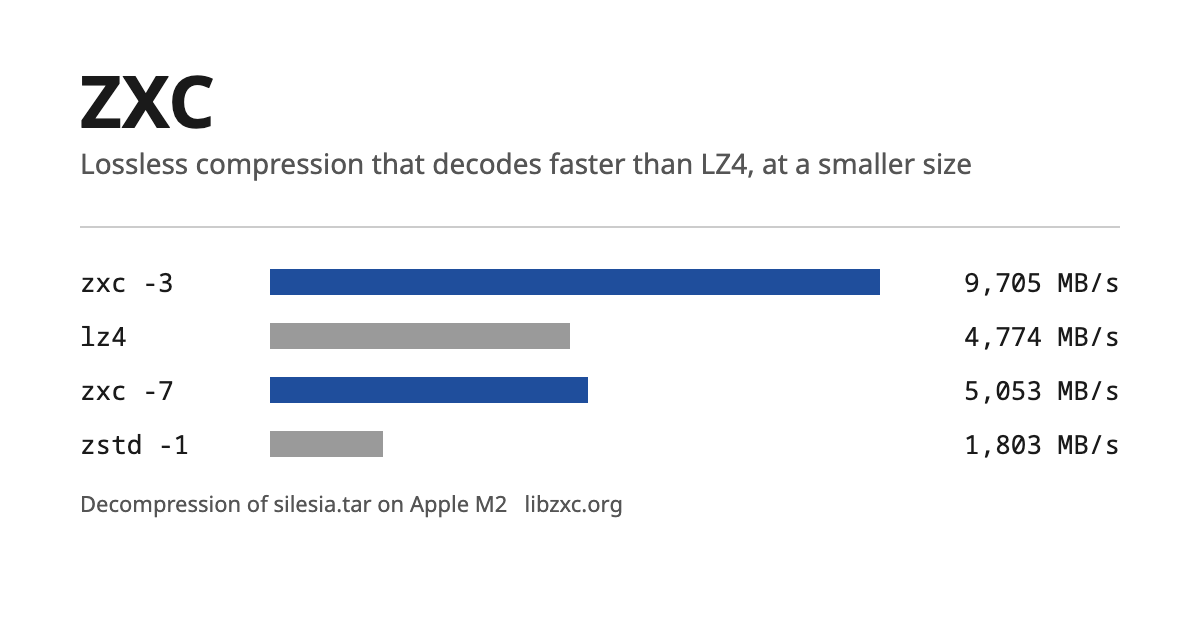
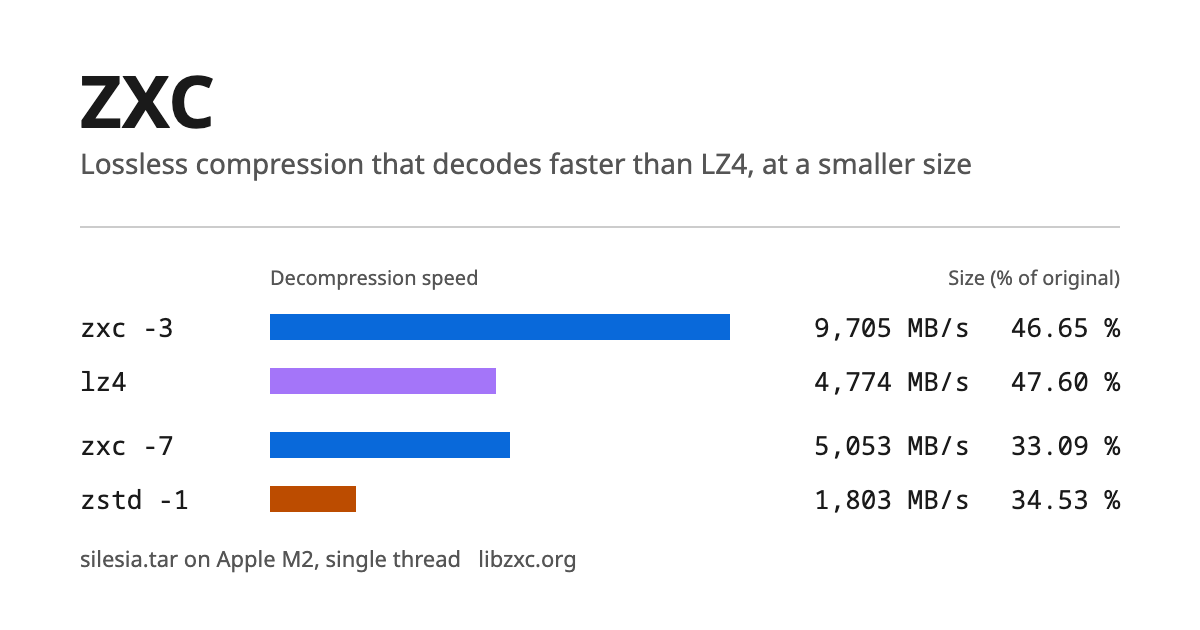
docs(site): add processor cycles benchmark and standardize codec styling
Introduce a new benchmark figure comparing processor cycles per decompressed byte to provide better performance context across different hardware. Update site CSS and builder logic to visually distinguish compression codecs (ZXC, LZ4, Zstandard) with consistent branding colors and refresh the social media preview image.

diff --git a/site/tools/og.html b/site/tools/og.html
@@ -11,9 +11,13 @@ body { width: 1200px; height: 630px; box-sizing: border-box; background: #fff; c
 .tag { font-size: 28px; color: #555; margin-top: 8px; }
 hr { border: 0; border-top: 2px solid #ccc; margin: 44px 0 36px; }
 .rows { display: grid; gap: 18px; font-family: "Noto Sans Mono", monospace; font-size: 26px; }
-.row { display: grid; grid-template-columns: 170px 1fr 220px; align-items: center; gap: 20px; }
+.row { display: grid; grid-template-columns: 170px 1fr 220px 130px; align-items: center; gap: 20px; }
+.hdr { font-family: "Noto Sans", Arial, sans-serif; font-size: 20px; color: #555; }
+.pair { margin-top: 10px; }
 .bar { height: 26px; background: #9a9a9a; }
-.z .bar { background: #1f4e9c; }
+.z .bar { background: #0969da; }
+.l .bar { background: #a475f9; }
+.s .bar { background: #bc4c00; }
 .v { text-align: right; }
 .cap { margin-top: 26px; font-size: 22px; color: #555; }
 </style></head>
@@ -21,10 +25,11 @@ hr { border: 0; border-top: 2px solid #ccc; margin: 44px 0 36px; }
   <div class="head"><div class="name">ZXC</div><div class="tag">Lossless compression that decodes faster than LZ4, at a smaller size</div></div>
   <hr>
   <div class="rows">
-    <div class="row z"><span>zxc -3</span><div class="bar" style="width:100%"></div><span class="v">9,705 MB/s</span></div>
-    <div class="row"><span>lz4</span><div class="bar" style="width:49.2%"></div><span class="v">4,774 MB/s</span></div>
-    <div class="row z"><span>zxc -7</span><div class="bar" style="width:52.1%"></div><span class="v">5,053 MB/s</span></div>
-    <div class="row"><span>zstd -1</span><div class="bar" style="width:18.6%"></div><span class="v">1,803 MB/s</span></div>
+    <div class="row hdr"><span></span><span>Decompression speed</span><span></span><span class="v" style="white-space:nowrap; justify-self:end">Size (% of original)</span></div>
+    <div class="row z"><span>zxc -3</span><div class="bar" style="width:100%"></div><span class="v">9,705 MB/s</span><span class="v">46.65 %</span></div>
+    <div class="row l"><span>lz4</span><div class="bar" style="width:49.2%"></div><span class="v">4,774 MB/s</span><span class="v">47.60 %</span></div>
+    <div class="row z pair"><span>zxc -7</span><div class="bar" style="width:52.1%"></div><span class="v">5,053 MB/s</span><span class="v">33.09 %</span></div>
+    <div class="row s"><span>zstd -1</span><div class="bar" style="width:18.6%"></div><span class="v">1,803 MB/s</span><span class="v">34.53 %</span></div>
   </div>
-  <div class="cap">Decompression of silesia.tar on Apple M2 &nbsp; libzxc.org</div>
+  <div class="cap">silesia.tar on Apple M2, single thread &nbsp; libzxc.org</div>
 </body></html>

diff --git a/site/src/index.html b/site/src/index.html
@@ -1,10 +1,12 @@
 <div class="inner">
 
-<h1>ZXC: lossless compression built for fast decoding</h1>
+<h1>ZXC: Lossless compression built for ultra-fast decode</h1>
 
 <p>ZXC is a lossless data compression library written in C, distributed as <strong>libzxc</strong>. It is designed for data that is compressed once and read many times: firmware images, game assets, application bundles, and content delivered to many devices. The encoder spends extra time up front so that decompression runs at several gigabytes per second on ARM and x86. At every compression level ZXC decodes faster than LZ4, and produces output of equal or smaller size.</p>
 
 <p>ZXC is free software, released under the <a href="https://opensource.org/license/bsd-3-clause">BSD 3-Clause License</a>. It has no dependencies, and official bindings exist for Rust, Python, Node.js and Go.</p>
+
+<p>Development happens on <a href="https://github.com/hellobertrand/zxc">GitHub</a>.</p>
 
 <div class="release">
   <p><strong>The current release is ZXC {{VERSION}}</strong>{{RELEASE_DATE}}.
@@ -94,6 +96,13 @@
 <figure class="pareto">
   <a href="/docs/images/bench-effective.svg"><img src="/docs/images/bench-effective.svg" width="960" height="584" alt="Effective throughput relative to LZ4 for every ZXC level and for LZ4, LZ4HC, LZAV, Zstandard and Snappy, on Apple M2, Google Axion, AMD EPYC 9B45 and AMD EPYC 7B13. All ZXC levels are above the LZ4 baseline of 1.00." loading="lazy"></a>
   <figcaption>Figure 4. Effective throughput (decode speed &times; 100 / ratio&nbsp;%) relative to LZ4, on the same four processors; higher is better, and LZ4 is 1.00. From the <a href="/docs/whitepaper/">whitepaper</a>.</figcaption>
+</figure>
+
+<p>Dividing the clock frequency by the decompression speed gives the cost of each decompressed byte in processor cycles, which compares processors running at different frequencies. ZXC spends less than one cycle per byte at every level.</p>
+
+<figure class="pareto">
+  <a href="/docs/images/bench-cycles.svg"><img src="/docs/images/bench-cycles.svg" width="960" height="608" alt="Processor cycles per decompressed byte for every ZXC level and for memcpy, LZ4, LZ4HC, LZAV, Snappy and Zstandard, on Apple M2, Google Axion, AMD EPYC 9B45 and AMD EPYC 7B13." loading="lazy"></a>
+  <figcaption>Figure 5. Processor cycles per decompressed byte (clock frequency / decompression speed), on the same four processors; lower is better. From the <a href="/docs/whitepaper/">whitepaper</a>.</figcaption>
 </figure>
 
 {{BENCH_TABLES}}

diff --git a/site/src/assets/site.css b/site/src/assets/site.css
@@ -16,8 +16,10 @@
   --pre-border: #dddddd;
   --note-bg: #fffbe6;
   --note-border: #e6d98c;
-  --zxc: #1f4e9c;
+  --zxc: #0969da;
   --rival: #9a9a9a;
+  --lz4: #a475f9;
+  --zstd: #bc4c00;
   --hl: #eef3fb;
   --tok-com: #6a6a6a;
   --tok-str: #0b6b0b;
@@ -39,8 +41,10 @@
     --pre-border: #3a3a3a;
     --note-bg: #2b2816;
     --note-border: #5c5324;
-    --zxc: #7ea6e8;
+    --zxc: #4493f8;
     --rival: #6e6e6e;
+    --lz4: #bc8cff;
+    --zstd: #db6d28;
     --hl: #1f2733;
     --tok-com: #9a9a9a;
     --tok-str: #9ccc8c;
@@ -75,9 +79,16 @@ hr { border: 0; border-top: 1px solid var(--rule); margin: 1.5em 0; }
 /* ---------- Masthead ---------- */
 .masthead { padding: 1.2em 0 0; }
 .masthead .inner { display: flex; align-items: center; gap: 0.9em; }
+.masthead .inner > div { flex: 1; min-width: 0; }
 .site-name { margin: 0; font-size: 1.9em; font-weight: bold; line-height: 1.1; }
 .site-name a, .site-name a:visited { color: var(--fg); text-decoration: none; }
 .site-tag { margin: 0.15em 0 0; color: var(--muted); }
+.gh-button { margin-left: auto; display: inline-flex; align-items: center; gap: 0.35em; padding: 0.15em 0.5em;
+  border: 1px solid var(--rule); border-radius: 5px; color: var(--fg); text-decoration: none; font-size: 0.8em; white-space: nowrap; }
+.gh-button:visited { color: var(--fg); }
+.gh-button:hover { background: var(--bar); }
+.gh-count { font-weight: bold; font-variant-numeric: tabular-nums; }
+.visually-hidden { position: absolute; width: 1px; height: 1px; overflow: hidden; clip: rect(0 0 0 0); white-space: nowrap; }
 
 .navbar {
   margin-top: 1em;
@@ -169,6 +180,8 @@ figure.bench fieldset label { margin-right: 1.1em; white-space: nowrap; }
 .track { height: 0.7em; margin: 0.1em 0 0.35em; }
 .fill { height: 100%; width: calc(var(--w) * 100%); background: var(--rival); transition: width 0.3s; }
 .bar.zxc .fill { background: var(--zxc); }
+.bar.lz4 .fill { background: var(--lz4); }
+.bar.zstd .fill { background: var(--zstd); }
 .gain { font-size: 0.88em; color: var(--muted); }
 .gain b { color: var(--fg); }
 figure.bench figcaption { font-size: 0.88em; color: var(--muted); margin-top: 0.6em; }
@@ -213,6 +226,6 @@ figure.pareto figcaption { font-size: 0.88em; color: var(--muted); margin-top: 0
 }
 
 @media print {
-  .navbar, .copy, .skip, figure.bench fieldset { display: none; }
+  .navbar, .copy, .skip, .gh-button, figure.bench fieldset { display: none; }
   a { color: inherit; }
 }

diff --git a/site/src/assets/site.js b/site/src/assets/site.js
@@ -20,6 +20,35 @@
     });
   }
 
+  // GitHub star count in the header button: refresh the build-time figure,
+  // at most once an hour per browser.
+  var stars = document.querySelectorAll("[data-gh-stars]");
+  if (stars.length && window.fetch) {
+    var KEY = "zxc-gh-stars", HOUR = 3600 * 1000;
+    var show = function (n) {
+      stars.forEach(function (el) {
+        el.querySelector("[data-gh-stars-n]").textContent = el.hasAttribute("data-gh-compact")
+          ? (n < 1000 ? String(n) : (n / 1000).toFixed(1).replace(/\.0$/, "") + "k")
+          : n.toLocaleString("en-US");
+        el.hidden = false;
+      });
+    };
+    var cached = null;
+    try { cached = JSON.parse(localStorage.getItem(KEY)); } catch (e) { cached = null; }
+    if (cached && typeof cached.n === "number" && Date.now() - cached.t < HOUR) {
+      show(cached.n);
+    } else {
+      fetch("https://api.github.com/repos/hellobertrand/zxc")
+        .then(function (r) { return r.ok ? r.json() : null; })
+        .then(function (d) {
+          if (!d || typeof d.stargazers_count !== "number") return;
+          show(d.stargazers_count);
+          try { localStorage.setItem(KEY, JSON.stringify({ n: d.stargazers_count, t: Date.now() })); } catch (e) {}
+        })
+        .catch(function () {});
+    }
+  }
+
   // Figure 1: switch processor without reloading.
   var fig = document.querySelector("[data-bench-figure]");
   if (fig) {
